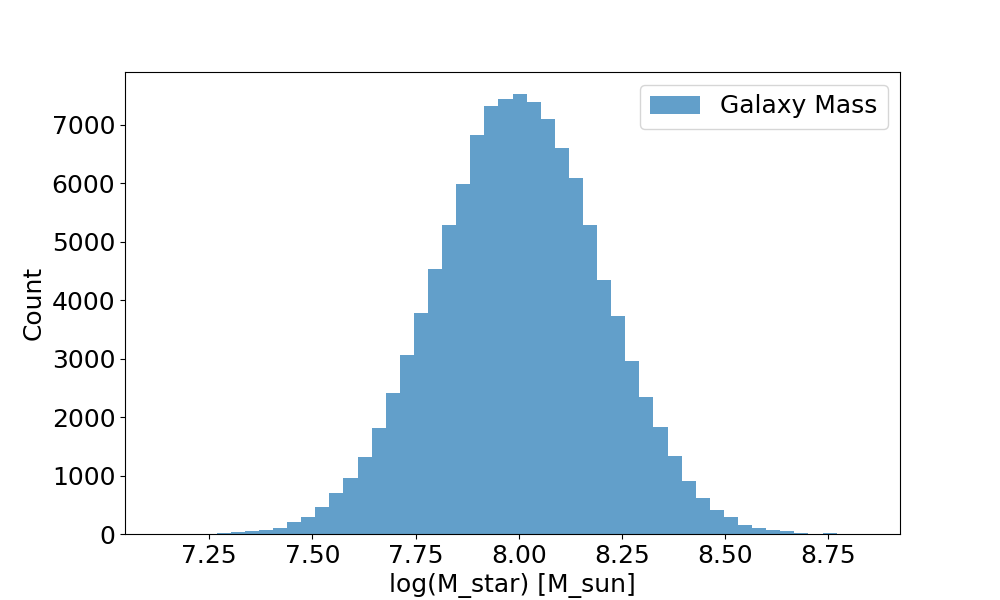
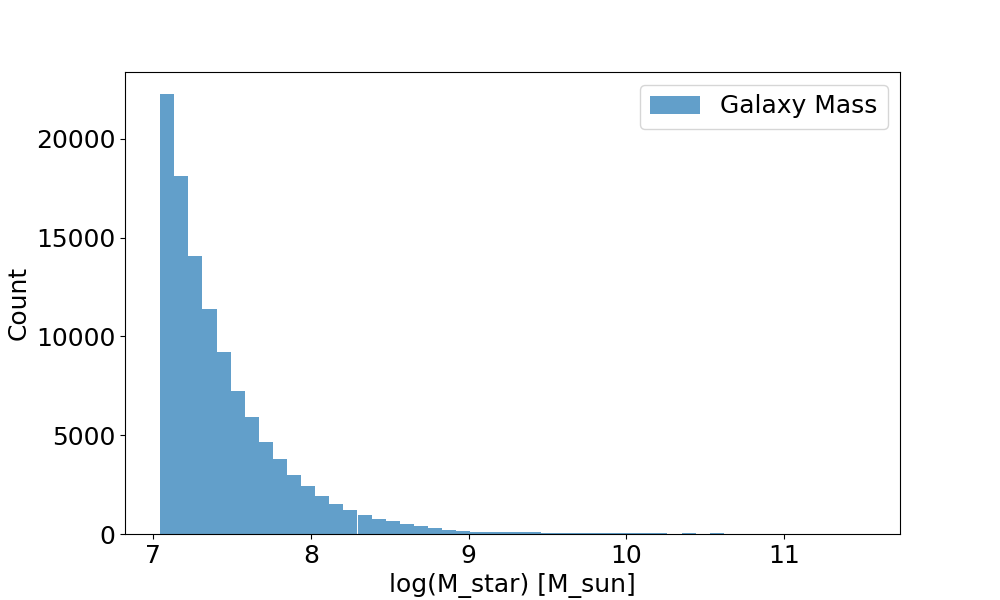
update: use original abundance match function and few and higher bins for 2pcf

diff --git a/cc3.py b/cc3.py
@@ -13,7 +13,7 @@ import h5py
 from colossus.cosmology import cosmology
 from colossus.lss import peaks
 from colossus.lss import bias
-from cc2 import get_HMF, get_SMF, wpr, D_z_white
+from cc2 import get_HMF, get_SMF, wpr, D_z_white, abundance_matching
 # plt.rcParams.update({'font.size': 18})
 
 # Planck 15 cosmology to match TNG50-1-Dark
@@ -33,18 +33,20 @@ def abundance_matching2(xvals, xarr, xdist, yarr, ydist, scatter=0.2):
 
 def plot_histograms(halo_masses, galaxy_masses):
     """Plot histograms of halo and galaxy masses."""
+    plt.clf()
     plt.figure(figsize=(10, 6))
-    plt.hist(halo_masses, bins=50, alpha=0.7, label='Halo Mass')
     plt.xlabel('log(M_halo) [M_sun]')
     plt.ylabel('Count')
+    plt.hist(halo_masses, bins=50, alpha=0.7, label='Halo Mass')
     plt.legend()
     plt.savefig('plots/halo_masses.png')
 
+    plt.clf()
     plt.figure(figsize=(10, 6))
-    plt.hist(galaxy_masses, bins=50, alpha=0.7,
-             label='Galaxy Mass')
     plt.xlabel('log(M_star) [M_sun]')
     plt.ylabel('Count')
+    plt.hist(galaxy_masses, bins=50, alpha=0.7,
+             label='Galaxy Mass')
     plt.legend()
     plt.savefig('plots/galaxy_masses.png')
 
@@ -91,8 +93,9 @@ if __name__ == '__main__':
     SMF = get_SMF(np.array([0]), MstarArray)[0]
 
     # Perform abundance matching
-    MstarCatalogue = abundance_matching2(
-        MhaloCatalogue, MhaloArray, 10**HMF, MstarArray, 10**SMF, scatter=0.2)
+    # MstarCatalogue = abundance_matching2(
+    #     MhaloCatalogue, MhaloArray, 10**HMF, MstarArray, 10**SMF, scatter=0.2)
+    MstarCatalogue, Mstar_AbundanceMatched = abundance_matching(MhaloCatalogue, 10**HMF, MhaloArray, 10**SMF, MstarArray, scatter=0.15, fillVal='extrapolate')
 
     # Plot histograms
     plot_histograms(MhaloCatalogue, MstarCatalogue)
@@ -106,11 +109,11 @@ if __name__ == '__main__':
     # Define stellar mass bins
     MstarCatalogue.sort()
     split_MstarCatalogue = list(split(MstarCatalogue, bins_for_MhaloCatalogue))
-    bins = []
-    for i in range(len(split_MstarCatalogue)):
-        bins.append((split_MstarCatalogue[i][0], split_MstarCatalogue[i][-1]))
+    # bins = []
+    # for i in range(len(split_MstarCatalogue)):
+    #     bins.append((split_MstarCatalogue[i][0], split_MstarCatalogue[i][-1]))
 
-    # bins = [(10.5, 11.0), (11.0, 11.5), (11.5, 12.0)]
+    bins = [(10.5, 11.0), (11.0, 11.5), (11.5, 12.0)]
     # Dz = cosmo.growthFactor(0)
     Dz = D_z_white(0.3, 0.)
 
@@ -134,9 +137,8 @@ if __name__ == '__main__':
                 logRp, logR, correlation_function, halo_bias, Dz)
 
             # Plot results
-            plt.figure()
-            plt.plot(logRp, np.log10(wp_projected),
-                     label=f"{mass_min}-{mass_max}")
+            plt.clf()
+            plt.figure(figsize=(10, 6))
             plt.xlabel("log(r_p) [Mpc/h]")
             plt.ylabel("log(w_p(r_p)) [Mpc/h]")
             plt.title("2PCF for Galaxy Mass Bins")
@@ -147,6 +149,9 @@ if __name__ == '__main__':
                                   unpack=True,
                                   delimiter=None,
                                   dtype=float)
+
+            plt.plot(logRp, np.log10(wp_projected),
+                     label=f"{mass_min}-{mass_max}")
             plt.plot(np.log10(rpd), np.log10(wpd/rpd), marker="d")
             plt.legend()
             plt.savefig(f"plots/2PCF_{mass_min}-{mass_max}.png")
@@ -156,13 +161,14 @@ if __name__ == '__main__':
 
     # print all bins
     logRp = np.linspace(0, 1.4, 30)
-    plt.figure()
+    plt.clf()
+    plt.figure(figsize=(10, 6))
+    plt.xlabel("log(r_p) [Mpc/h]")
+    plt.ylabel("log(w_p(r_p)) [Mpc/h]")
+    plt.title("2PCF for Galaxy Mass Bins")
     for i, (mass_min_unrounded, mass_max_unrounded) in enumerate(bins):
         mass_min = round(mass_min_unrounded, 2)
         mass_max = round(mass_max_unrounded, 2)
         plt.plot(logRp, np.log10(wp_projected), label=f"{mass_min}-{mass_max}")
-    plt.xlabel("log(r_p) [Mpc/h]")
-    plt.ylabel("log(w_p(r_p)) [Mpc/h]")
-    plt.title("2PCF for Galaxy Mass Bins")
     plt.legend()
     plt.savefig("plots/2PCF_all_bins.png")

diff --git a/cc2.py b/cc2.py
@@ -16,6 +16,7 @@ from colossus.lss import mass_function
 from colossus.lss import peaks
 from colossus.lss import bias
 from scipy.integrate import simpson as simps
+from scipy.special import erfc
 plt.rcParams.update({'font.size': 18})
 
 # Planck 15 cosmology to match TNG50-1-Dark
